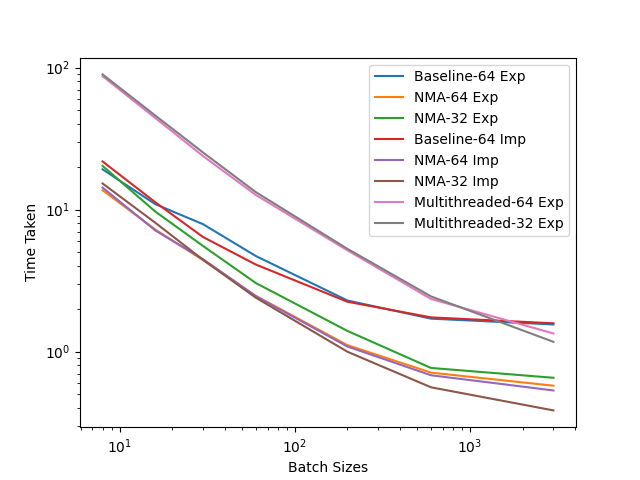
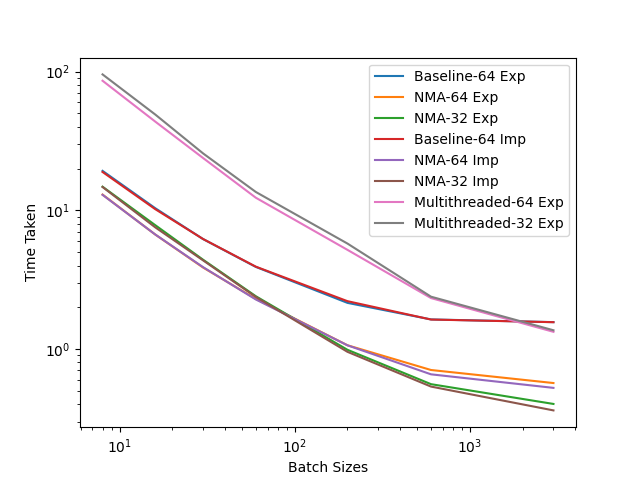
Update float32

diff --git a/PA5/main.py b/PA5/main.py
@@ -262,6 +262,8 @@ def sgd_mss_with_momentum_noalloc_float32(Xs, Ys, gamma, W0, alpha, beta, B, num
     Xs = Xs.astype(np.float32)
     Ys = Ys.astype(np.float32)
     W0 = W0.astype(np.float32)
+    alpha = np.float32(alpha)
+    gamma = np.float32(gamma)
 
     (d, n) = Xs.shape
     (c, d) = W0.shape
@@ -319,6 +321,9 @@ def sgd_mss_with_momentum_threaded_float32(Xs, Ys, gamma, W0, alpha, beta, B, nu
     Xs = Xs.astype(np.float32)
     Ys = Ys.astype(np.float32)
     W0 = W0.astype(np.float32)
+    alpha = np.float32(alpha)
+    gamma = np.float32(gamma)
+
     (d, n) = Xs.shape
     (c, d) = W0.shape
     # TODO perform any global setup/initialization/allocation (students should implement this)
